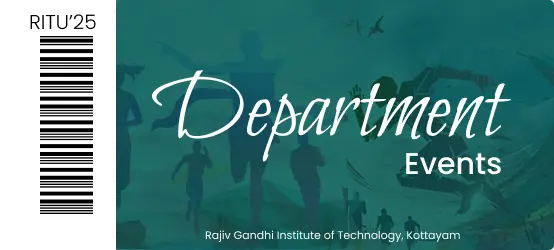
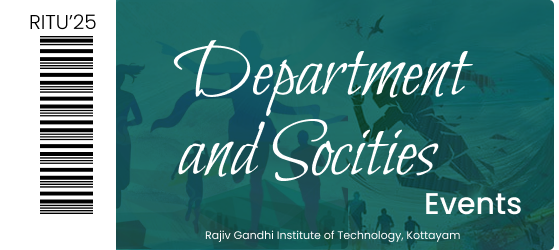
update

diff --git a/src/app/(web)/(main)/dept/page.tsx b/src/app/(web)/(main)/dept/page.tsx
@@ -2,25 +2,57 @@ import DEPT_MAPPING from "@/data/dept-mapping";
 import Link from "next/link";
 import React from "react";
 import {cn} from "@/lib/utils";
+import Header from "@/components/header";
+import SOCIETIES_MAPPING from "@/data/socities-mapping";
 
 export default function DeptPage() {
     return (
         <section className="flex flex-col justify-center items-center">
             <div className="max-h-[600px] h-screen flex flex-col justify-center items-center">
-                <img src="/bg/bg-line-left.webp" className="absolute left-0 w-[20%] h-[200px] max-sm:h-auto max-sm:w-[40%] opacity-50 z-0"/>
-                <img src="/bg/bg-line-right.webp" className="absolute right-0 w-[20%] h-[200px] max-sm:h-auto max-sm:w-[40%] opacity-50 z-0"/>
-                <h1 className="text-4xl font-bold z-10">Department Page</h1>
-                <p className="mt-4 text-lg text-center z-10">Welcome to the Department Page. Please select a department to
-                    view more details.</p>
+                <img src="/bg/bg-line-left.webp"
+                     className="absolute left-0 w-[20%] h-[200px] max-sm:h-auto max-sm:w-[40%] opacity-50 z-0"/>
+                <img src="/bg/bg-line-right.webp"
+                     className="absolute right-0 w-[20%] h-[200px] max-sm:h-auto max-sm:w-[40%] opacity-50 z-0"/>
+                <h1 className="text-4xl font-bold z-10">Departments And Societies</h1>
+                <p className="mt-4 text-lg text-center z-10">Welcome to the Departments and Societies. Click on the
+                    cards below to view its events.</p>
             </div>
-            <div className="grid grid-cols-2 gap-10 justify-items-center max-sm:grid-cols-1">
+
+            <Header title="Departments"/>
+            <div className="grid grid-cols-2 gap-10 justify-items-center max-lg:grid-cols-1">
                 {DEPT_MAPPING.map((item, index) => (
                     <Link
                         href={item.page}
                         key={index}
                         className={cn("relative w-fit h-fit transition-transform duration-100 cursor-pointer select-none hover:scale-105", item.comingSoon && "flex items-center pointer-events-none")}
                     >
-                        {item.comingSoon && <div className="absolute w-full text-center bg-black text-white px-2 py-1 text-2xl font-bold z-10 ">
+                        {item.comingSoon && <div
+                            className="absolute w-full text-center bg-black text-white px-2 py-1 text-2xl font-bold z-10 ">
+                            Coming Soon
+                        </div>}
+                        <img
+                            alt="Dept"
+                            src={item.image}
+                            className={cn("h-[200px] max-sm:h-auto max-sm:max-w-[90vw] max-md:w-[65vw]", item.comingSoon && "opacity-50 grayscale")}
+                        />
+                    </Link>
+                ))}
+            </div>
+            <br/><br/>
+            <br/><br/>
+            <br/><br/>
+
+
+            <Header title="Socities"/>
+            <div className="flex flex-wrap justify-center gap-10 justify-items-center max-sm:grid-cols-1">
+                {SOCIETIES_MAPPING.map((item, index) => (
+                    <Link
+                        href={item.page}
+                        key={index}
+                        className={cn("relative w-fit h-fit transition-transform duration-100 cursor-pointer select-none hover:scale-105", item.comingSoon && "flex items-center pointer-events-none")}
+                    >
+                        {item.comingSoon && <div
+                            className="absolute w-full text-center bg-black text-white px-2 py-1 text-2xl font-bold z-10 ">
                             Coming Soon
                         </div>}
                         <img

diff --git a/src/app/(web)/(main)/society/tinkerhub/page.tsx b/src/app/(web)/(main)/society/tinkerhub/page.tsx
@@ -1,0 +1,17 @@
+"use client";
+import LandingBanner from "@/components/pages/landing-banner";
+import PosterListing from "@/components/pages/poster-listing";
+import TINKERHUB_DATA from "@/data/socities/tinkerhub";
+
+export default function DeptPage() {
+    return (
+        <section className="min-h-screen flex flex-col justify-center items-center">
+            <LandingBanner
+                bg="/bg/civil.webp"
+                title="TinkerHub RIT"
+                description="Explore workshops, seminars, and events organized by the Tinkerhub RIT."
+            />
+            <PosterListing events={TINKERHUB_DATA}/>
+        </section>
+    )
+}

diff --git a/src/app/(web)/(main)/society/iedc/page.tsx b/src/app/(web)/(main)/society/iedc/page.tsx
@@ -1,0 +1,17 @@
+"use client";
+import LandingBanner from "@/components/pages/landing-banner";
+import PosterListing from "@/components/pages/poster-listing";
+import IEEE_DATA from "@/data/socities/ieee";
+
+export default function DeptPage() {
+    return (
+        <section className="min-h-screen flex flex-col justify-center items-center">
+            <LandingBanner
+                bg="/bg/civil.webp"
+                title="IEEE SB RIT"
+                description="Explore workshops, seminars, and events organized by the IEEE SB RIT."
+            />
+            <PosterListing events={IEEE_DATA}/>
+        </section>
+    )
+}

diff --git a/src/app/(web)/(main)/society/ieee/page.tsx b/src/app/(web)/(main)/society/ieee/page.tsx
@@ -1,0 +1,17 @@
+"use client";
+import LandingBanner from "@/components/pages/landing-banner";
+import PosterListing from "@/components/pages/poster-listing";
+import IEDC_DATA from "@/data/socities/iedc";
+
+export default function DeptPage() {
+    return (
+        <section className="min-h-screen flex flex-col justify-center items-center">
+            <LandingBanner
+                bg="/bg/civil.webp"
+                title="IEDC RIT"
+                description="Explore workshops, seminars, and events organized by the IEDC RIT."
+            />
+            <PosterListing events={IEDC_DATA}/>
+        </section>
+    )
+}

diff --git a/src/data/socities-mapping.ts b/src/data/socities-mapping.ts
@@ -1,0 +1,19 @@
+
+
+const SOCIETIES_MAPPING = [
+    {
+        image: "/society/ieee.webp",
+        page: "/society/ieee",
+        comingSoon: true
+    }, {
+        image: "/society/iedc.webp",
+        page: "/society/iedc",
+        comingSoon: true
+    }, {
+        image: "/society/tinkerhub.webp",
+        page: "/society/tinkerhub",
+        comingSoon: true
+    }
+]
+
+export default SOCIETIES_MAPPING;

diff --git a/src/data/socities/tinkerhub.ts b/src/data/socities/tinkerhub.ts
@@ -1,0 +1,8 @@
+import {IEventData} from "@/types/event";
+
+
+const TINKERHUB_DATA: IEventData[] = [
+
+]
+
+export default TINKERHUB_DATA;

diff --git a/src/data/socities/iedc.ts b/src/data/socities/iedc.ts
@@ -1,0 +1,8 @@
+import {IEventData} from "@/types/event";
+
+
+const IEDC_DATA: IEventData[] = [
+
+]
+
+export default IEDC_DATA;

diff --git a/src/data/socities/ieee.ts b/src/data/socities/ieee.ts
@@ -1,0 +1,8 @@
+import {IEventData} from "@/types/event";
+
+
+const IEEE_DATA: IEventData[] = [
+
+]
+
+export default IEEE_DATA;
